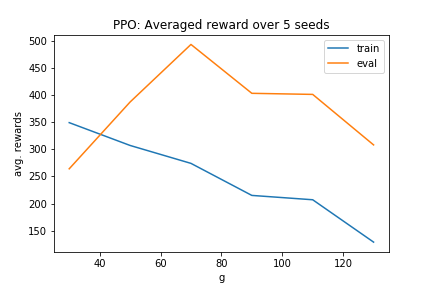
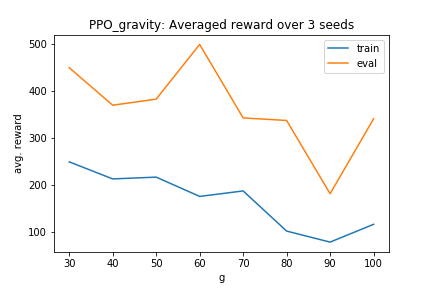
Update bio, resume, and drl project
Change description and plot for deep RL project.

diff --git a/content/project/deeprl/index.md b/content/project/deeprl/index.md
@@ -19,14 +19,6 @@ url_video: ""
 
 ---
 
-The general idea of transfer learning is to reuse learnings or experiences from related tasks to obtain a _jumpstart_ on the task of interest. A lot of work in this paradigm in RL is centered around learning from _easier_, but related tasks to generalize to desired, _harder_ task.  
+The general idea of transfer learning is to reuse learnings or experiences from related tasks to obtain a _jumpstart_ on the task of interest. A lot of work in this paradigm in RL is centered around learning from _easier_ but related tasks to generalize to a desired, _harder_ task.  
 A recently published work on Challenge Learning [[Jason Ma, 2019](https://drive.google.com/file/d/13lT4li8V0KKS0wqrn3Y047JiMEHCZAjF/view)] explores the other direction of transfer. It proposes learning policies on a harder version of an environment and evaluating the same on an easier one by controlling a single environment variable. The paper, however, only demonstrates experimental results on CartPole using an Advantage Actor Critic (A2C) [[Mnih et al., 2016](https://arxiv.org/pdf/1602.01783.pdf)] architecture.  
-We add evaluations of the environment on an actor-critic architecture using Proximal Policy Optimization (PPO) [[Schulman et al., 2017](https://arxiv.org/pdf/1707.06347.pdf)] as the actor, which is shown to be much more robust to changes in the environment. We also plan to control for other affecting variables, like mass of the cartpole, as well as present results for other control environments, like mountain car.
-
-To summarize, examine the veracity of claims made in the paper across following settings:  
-a. Choice of architecture (A2C, PPO)  
-b. Environment control variable (e.g., for CartPole - gravity, mass of cartpole)  
-c. Different OpenAI gym [environments](https://gym.openai.com/envs/#classic_control) (CartPole, Mountain Car)  
-d. Evaluation strategy  
-  i. Stochastic (sample actions acc. to probability distribution)  
-  ii. Deterministic (choose action having the maximum probability)
+We add evaluations of the environment on an actor-critic architecture using Proximal Policy Optimization (PPO) [[Schulman et al., 2017](https://arxiv.org/pdf/1707.06347.pdf)] as the actor, which is shown to be much more robust to changes in the environment. We also control for an extra affecting variable, the magnitude of the horizontal force applied on the cart (a constant).

diff --git a/content/authors/admin/_index.md b/content/authors/admin/_index.md
@@ -27,7 +27,7 @@ interests:
 
 education:
   courses:
-  - course: BS in Mathematics and Scientific Computing, minor in Artificial Intelligence
+  - course: BS in Mathematics & Scientific Computing, minor in Artificial Intelligence
     institution: IIT Kanpur
     year: 2017
 
@@ -64,6 +64,6 @@ email: ""
 #- Visitors
 ---
 
-I am currently working in the algorithms team of Adobe AdCloud Search (prev. [Adobe Media Optimizer](https://www.adobe.com/advertising/media-optimizer.html)), where I build models which manage ad spends for businesses. I graduated from [IIT Kanpur](https://www.iitk.ac.in) in the summer of 2017, with a major in Mathematics and Scientific Computing and a minor in Artificial Intelligence.  
-My research interests include neural text generation tasks, which include neural machine translation (NMT) and abstractive summarization. I have worked on a variety of projects in machine learning, including summarization, object detection, and Bayesian matrix factorization. I have also worked on transfer learning, both in machine translation and in reinforcement learning.  
-Football occupies my weekends, and I also like to play [FIFA](https://www.ea.com/games/fifa) from time to time.
+I am currently working in the algorithms team of Adobe Advertising Cloud Search (prev. [Adobe Media Optimizer](https://www.adobe.com/advertising/media-optimizer.html)), where I build models which manage ad spends for businesses. I graduated from [IIT Kanpur](https://www.iitk.ac.in) in the summer of 2017, with a major in Mathematics & Scientific Computing and a minor in Artificial Intelligence.  
+I am fascinated by techniques that can help generate information in human languages, to accomplish useful tasks like machine translation and abstractive summarization. In particular, I am intrigued by methods based on the transfer learning paradigm, as I believe they can make up for the paucity of training data in low-resource languages.  
+I am an avid football fan and spend most of my weekends watching matches. Sometimes though, I try to brush up my Spanish.
